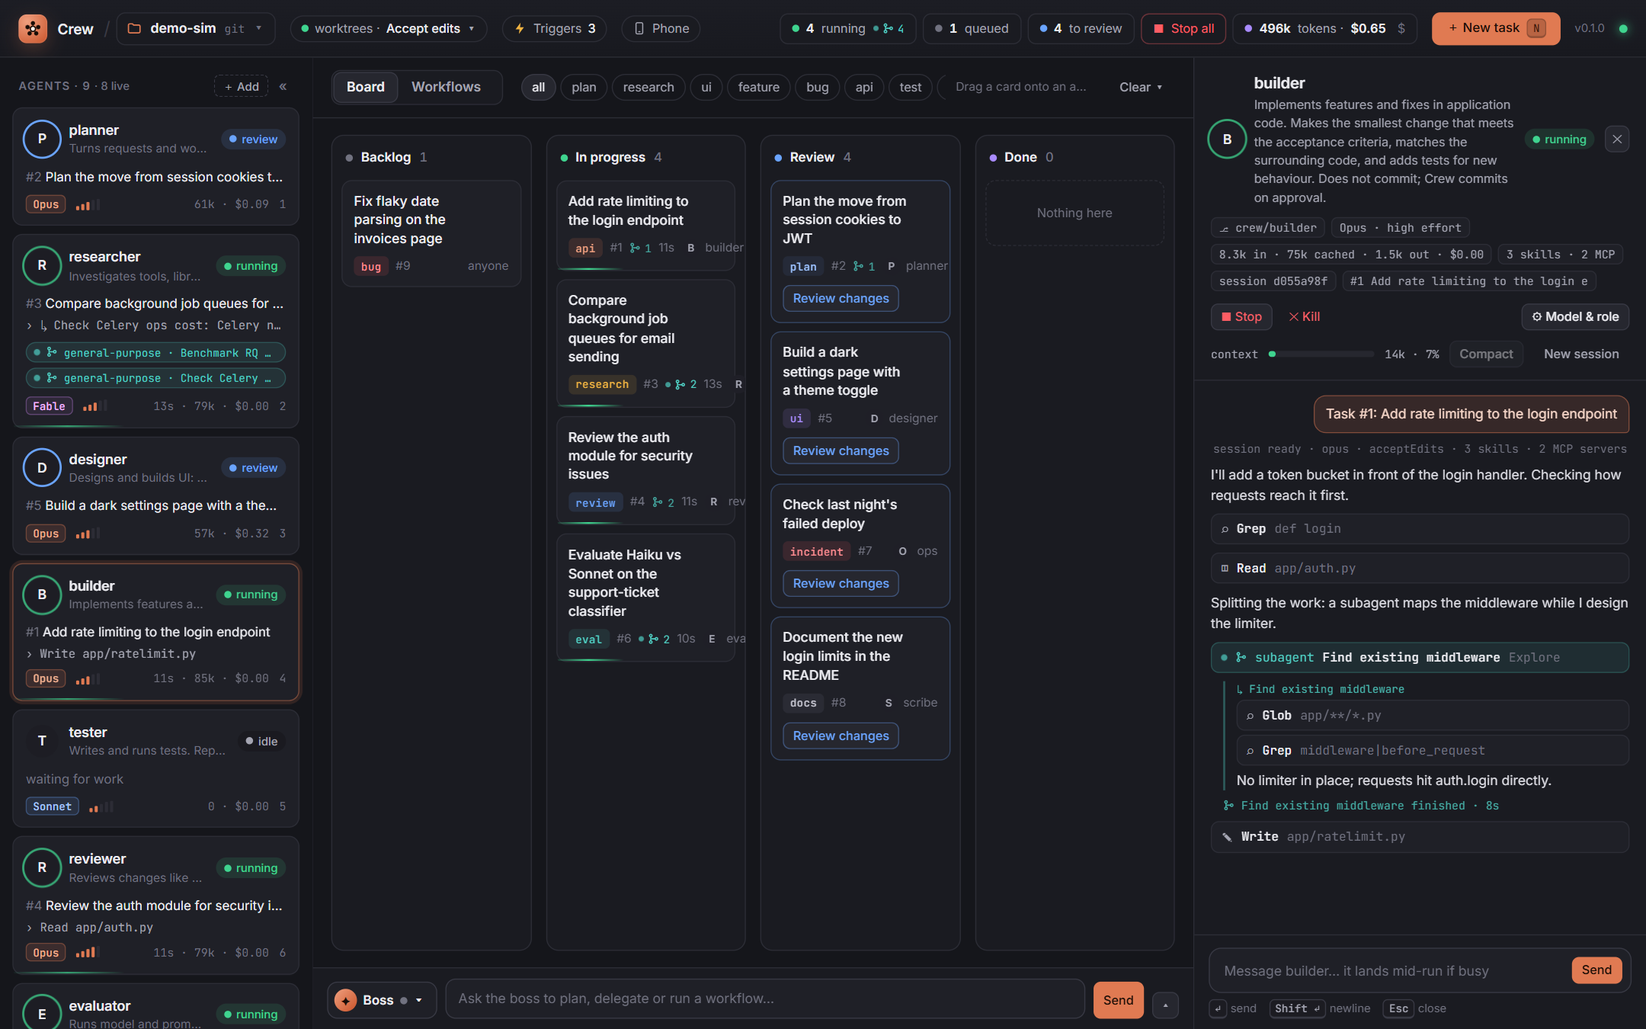
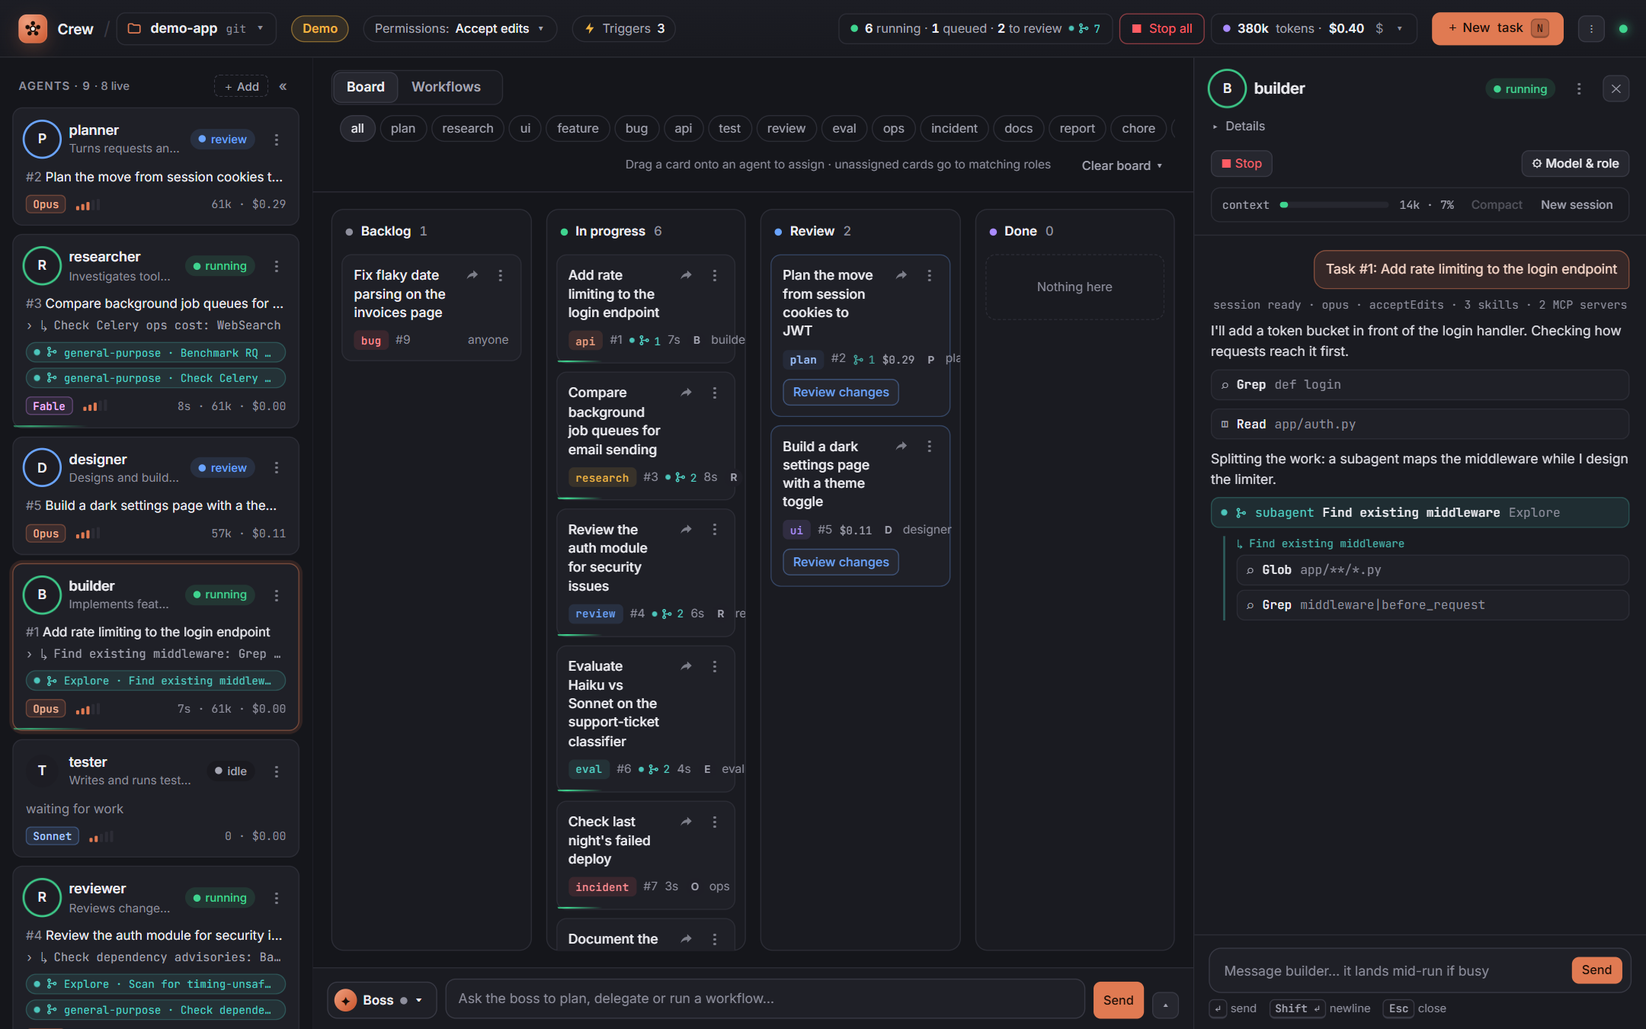
Crew 0.2.0: changelog, README, screenshots
The review-to-merge loop (decision sheet, merge or PR, Blocked inbox, budgets, first-run card), Phase 1 safety fixes and Phase 3 polish. New review, review-merge, blocked, hero, agent, flows, canvas, slash and phone screenshots.

diff --git a/server.py b/server.py
@@ -30,7 +30,7 @@ from http.server import BaseHTTPRequestHandler, ThreadingHTTPServer
 from pathlib import Path
 from urllib.parse import parse_qs, urlsplit
 
-__version__ = "0.1.0"
+__version__ = "0.2.0"
 
 APP_DIR = Path(__file__).resolve().parent
 # A clone has pyproject.toml next to server.py; an installed wheel does not. When installed, the

diff --git a/README.md b/README.md
@@ -29,7 +29,7 @@ git clone https://github.com/pranjal-joshi/claude-crew && cd claude-crew
 python server.py --demo
 ```
 
-Open **http://127.0.0.1:8770**.
+Open **http://127.0.0.1:8770**. On an empty board a first-run card offers one example task; a **Demo** badge in the header tells demo from a real project.
 
 ## Install
 
@@ -37,7 +37,7 @@ Crew is pure standard-library Python (3.10 or newer) and installs as a `crew` co
 
 ```bash
 pipx install claude-crew                      # from PyPI, once published
-pipx install https://github.com/pranjal-joshi/claude-crew/releases/download/v0.1.0/claude_crew-0.1.0-py3-none-any.whl   # a release wheel
+pipx install https://github.com/pranjal-joshi/claude-crew/releases/download/v0.2.0/claude_crew-0.2.0-py3-none-any.whl   # a release wheel
 pipx install git+https://github.com/pranjal-joshi/claude-crew   # latest main
 ```
 
@@ -51,7 +51,7 @@ You need [Claude Code](https://docs.claude.com/en/docs/claude-code) installed an
 python server.py --project /path/to/your/repo
 ```
 
-To use it from your phone or another computer on the same Wi-Fi, add `--lan`, then click **Phone** in the header and scan the QR code. On a phone it lays out like an app:
+To use it from your phone or another computer on the same Wi-Fi, add `--lan`, then open the header **⋮** menu, choose **Phone**, and scan the QR code. On a phone it lays out like an app:
 
 ```bash
 python server.py --project /path/to/your/repo --lan
@@ -69,7 +69,7 @@ Crew gives that queue a home:
 - **One board** for every task, with Backlog, In progress, Review and Done columns.
 - **Agents that pull their own work.** Each agent has a role and tags; idle agents take matching tasks.
 - **No stepping on each other.** Every agent works in its own git worktree on its own `crew/<name>` branch.
-- **You stay the reviewer.** Finished work lands in Review with the agent's summary and a real diff. Approve commits it; Send back resumes the same session with your feedback.
+- **You stay the reviewer.** Finished work lands in Review as a decision sheet: the agent's summary, a verdict line (files, +/-, tests) and a per-file diff. Approve commits it, then one click merges the branch or opens a PR. Send back resumes the same session with your feedback.
 - **Work that starts itself.** Schedules, events, file watches, command polls and webhooks turn into tasks, so the standup gets written at 11:00 and every approved feature gets tests.
 
 ## The boss
@@ -125,12 +125,18 @@ The **Output** block decides what a finished run delivers:
 | 🔗 Webhook | The run report is POSTed as JSON (`workflow, run, title, status, report, steps`) to a URL, e.g. a Slack or Teams hook. |
 | ⛓ Next workflow | Another workflow starts with the same goal and this run's last summary (at most 5 in a chain). |
 
+## Review, merge, budgets
+
+A finished task lands in **Review** as a decision sheet: a verdict line, **Approve & commit** pinned at the bottom, the diff collapsed per file, and **Send back** beside it. Press <kbd>A</kbd> to approve; an undo toast lets you take it back. Once approved, **Merge into current branch** merges it in one click, or **Open PR** uses `gh` when the repo has a remote. On a conflict Crew lists the files and offers to send the task back to the agent. Done cards show merged or not merged.
+
+Every card shows its cost. Set a **per-task** and a **per-day** budget (click the tokens/$ stat). A task that hits its budget is flagged and can't be sent back; a spent day budget stops running agents until the next local day or a higher budget.
+
 ## Stop, kill, clear
 
 - **■ Stop** (agent card, drawer, or **Stop all** in the header) ends the current run at once. The session is kept, the task goes back to the backlog **on hold**, and the agent pauses until you press **▶ Resume** or give it work.
-- **Kill** disables an agent until you respawn it. Use it for an agent that misbehaves.
-- **Clear ▾** removes Done tasks, or the whole board (running agents are stopped first). Branches and commits are kept.
-- **Clear** (red button, top right of an open boss or agent chat) wipes that conversation and empties its context: the next message starts a fresh session.
+- **Kill** (agent ⋮ menu, behind a confirm) disables an agent until you respawn it. Use it for an agent that misbehaves.
+- **Clear board ▾** removes Done tasks, or the whole board (running agents are stopped first). Branches and commits are kept.
+- **Clear chat** (red button, top right of an open boss or agent chat) wipes that conversation and empties its context: the next message starts a fresh session.
 
 Give each agent an icon (two dozen dev line icons) and a colour in its settings; the glyph switches between black and white to stay readable. Every agent and every card has a **⋮** menu at its top right: rename, settings, stop, kill or delete an agent; move, mark done or delete a card. The forward button next to a card's ⋮ hands it to an agent (or lets the boss pick), and hand-offs show the same arrow with who it went to. Click a card on the board to open the agent that handled it. Drag agents in the left rail to reorder the crew; the order is saved to `crew.json`. Collapse the rail with « to a slim column of avatars and status dots, and » brings it back (remembered per browser).
 
@@ -168,16 +174,20 @@ Nine presets cover the common loops: daily standup, test what ships, review what
 | 🧹 **Fresh context per task** | A new session per task keeps tokens down; send-back still resumes. Per-agent switch. |
 | 🧠 **Model and effort per agent** | Opus for the builder, Sonnet for the tester, Fable for research: each agent gets its own model and effort level (low to max). |
 | 🪢 **Subagents, visible** | When an agent fans out to subagents, you see each one live on the agent card, a count on the task, and a labelled thread in the transcript. |
-| 🌳 **Worktree isolation** | One worktree and branch per agent. Merge what you approve with `git merge crew/<name>`. |
-| 🔍 **Review gate** | Agent summary and colored diff side by side. Approve and commit, send back, or hand off to another agent. |
+| 🌳 **Worktree isolation** | One worktree and branch per agent, kept even if the worktree folder goes missing. |
+| 🔍 **Review gate** | A decision sheet: summary, verdict line and per-file diff. Approve and commit (<kbd>A</kbd>, with undo), send back, or hand off. |
+| 🔀 **Merge or PR** | One click merges an approved branch, or opens a PR with `gh`. Conflicts are listed and can go back to the agent. |
+| 🚫 **Blocked inbox** | Tool calls the permission mode refused are listed: Allow & retry, Allow once, or Dismiss. |
+| 💲 **Budgets** | Cost on every card, plus a per-task and a per-day budget that stops runs. |
 | ↪ **Hand-offs** | Drag any card, in any column, onto another agent. The earlier summary, branch and commit go along as context. |
 | ✦ **Boss chat** | A chat bar that runs the crew: tasks, workflows, agents and triggers, from plain requests. |
-| ⌨ **Slash picker** | Type `/` in any chat box for Crew commands plus the agent's Claude Code commands and skills. **Clear** in the chat panel wipes a chat and its context. |
+| ⌨ **Slash picker** | Type `/` in any chat box for Crew commands plus the agent's Claude Code commands and skills. **Clear chat** wipes a chat and its context. |
 | 💬 **Talk mid-run** | Message any agent while it works. The message lands in the running session. |
+| ☕ **Keep-awake** | `--awake` stops idle sleep while agents work, so runs and schedules aren't paused. |
 | 📱 **Phone app feel** | `--lan` plus a QR code. On a phone: bottom navigation, swipeable columns, bottom sheets, Android back closes sheets. |
-| ■ **Stop, kill, clear** | Stop a run (session kept, task on hold), stop everything at once, or clear the board. |
-| 🔐 **Permission modes** | Accept edits (default), Auto (Claude Code's safety classifier) or Bypass, for all agents from one switch. |
-| 🔢 **Tokens and cost** | Live token counts per agent, per task and in total. Hide the dollar amounts with one click. |
+| ■ **Stop, kill, clear** | Stop a run (session kept, task on hold), stop everything at once, or clear the board. Agent ⋮ menus rename, recolour and kill. |
+| 🔐 **Permission modes** | Accept edits (default), Auto (Claude Code's safety classifier) or Bypass, from the **Permissions** chip in the header. |
+| 🔢 **Tokens and cost** | Live token counts per agent, per task and in total. Hide the dollar amounts with one click. Totals are marked "this session". |
 | 🧩 **Your skills and MCP servers** | Agents are ordinary Claude Code sessions, so they load your skills, plugins and MCP servers. |
 | 📁 **Projects** | Switch repos from the header. Each project keeps its own board, sessions and worktrees. |
 | ⌨ **Keyboard first** | `/` talk to the boss, `N` new task, `T` triggers, `W` / `B` workflows / board, `1`–`9` open an agent, `Ctrl K` command palette, `Esc` close. |
@@ -187,7 +197,11 @@ Nine presets cover the common loops: daily standup, test what ships, review what
 <table>
   <tr>
     <td width="50%"><img src="assets/agent.png" alt="Agent transcript with parallel subagents"><br><sub><b>Agent view.</b> Live transcript; subagents get their own labelled thread.</sub></td>
-    <td width="50%"><img src="assets/review.png" alt="Review drawer with summary and diff"><br><sub><b>Review.</b> The agent's summary and its diff. Approve commits to its branch.</sub></td>
+    <td width="50%"><img src="assets/review.png" alt="Review decision sheet with summary and diff"><br><sub><b>Review.</b> Verdict line, per-file diff and a pinned Approve & commit.</sub></td>
+  </tr>
+  <tr>
+    <td width="50%"><img src="assets/review-merge.png" alt="Approved task with Merge and Open PR buttons"><br><sub><b>Merge or PR.</b> After Approve: merge into the current branch, open a PR, or undo.</sub></td>
+    <td width="50%"><img src="assets/blocked.png" alt="Blocked inbox in the agent drawer"><br><sub><b>Blocked inbox.</b> A refused command: Allow &amp; retry, Allow once, or Dismiss.</sub></td>
   </tr>
   <tr>
     <td width="50%"><img src="assets/flows.png" alt="Workflows tab with five workflows"><br><sub><b>Workflows.</b> Agents in a fixed order; runs show each step live. Run has a green ▶.</sub></td>
@@ -199,7 +213,7 @@ Nine presets cover the common loops: daily standup, test what ships, review what
   </tr>
   <tr>
     <td width="50%"><img src="assets/settings.png" alt="Per-agent model and effort settings"><br><sub><b>Model and role.</b> Per-agent model, effort, role and tags.</sub></td>
-    <td width="50%"><img src="assets/hero.png" alt="Board with nine agents running"><br><sub><b>Board.</b> Agents in flight, subagents counted on each card.</sub></td>
+    <td width="50%"><img src="assets/hero.png" alt="Board with nine agents running"><br><sub><b>Board.</b> Agents in flight, with cost and subagents on each card.</sub></td>
   </tr>
   <tr>
     <td width="50%"><img src="assets/slash.png" alt="Slash picker in the chat bar"><br><sub><b>Slash picker.</b> Type <code>/</code> for Crew commands, plus an agent's commands and skills.</sub></td>
@@ -223,7 +237,7 @@ flowchart LR
 - Each agent is a long-lived `claude -p --input-format stream-json --output-format stream-json` process. Crew writes tasks and your messages to its stdin and reads every event from its stdout.
 - A one-second loop checks triggers, then gives idle agents work: tasks pinned to them first, then unassigned tasks whose tag matches the agent's tags.
 - Subagents are tracked from the stream itself. An `Agent` tool call starts one, events tagged with its `parent_tool_use_id` belong to it, and its tool result ends it.
-- State (board, triggers, sessions, tokens, transcripts) is saved per project under `~/.crew/state/`. Worktrees live in `~/.crew/wt/`, which keeps paths short enough for Windows.
+- State (board, triggers, sessions, tokens, transcripts) is saved per project under `~/.crew/state/`. Agent process ids are kept in `~/.crew/pids/`, so leftovers from a crash are ended at startup. Worktrees live in `~/.crew/wt/`, which keeps paths short enough for Windows.
 
 ## Configuration
 
@@ -254,7 +268,7 @@ flowchart LR
 
 ### Permissions
 
-Headless agents can't answer permission prompts. In **Accept edits** mode, file edits are allowed and Bash commands outside `allowed_tools` are refused, and the agent is told why. Refused calls land in the **blocked** list in the header (and in the agent's drawer): **Allow & retry** adds a rule such as `Bash(npm test:*)` to `allowed_tools` for you, or **Allow once** keeps it until that task ends. You can also add commands to `allowed_tools` yourself, or switch to **Auto** to let Claude Code's classifier decide. **Bypass** skips all checks and asks you to confirm first.
+Headless agents can't answer permission prompts. In **Accept edits** mode, file edits are allowed and Bash commands outside `allowed_tools` are refused, and the agent is told why. Refused calls land in the **Blocked** inbox (the "N blocked" chip in the header, and the agent's drawer): **Allow & retry** adds a rule such as `Bash(npm test:*)` to `allowed_tools` for you, **Allow once** keeps it until that task ends, and **Dismiss** clears it. You can also add commands to `allowed_tools` yourself, or switch to **Auto** to let Claude Code's classifier decide. **Bypass** skips all checks and asks you to confirm first.
 
 ## Security
 
@@ -263,14 +277,15 @@ Headless agents can't answer permission prompts. In **Accept edits** mode, file 
 - `--lan` listens on your network, but every request from another device needs a secret key (set as a cookie by the QR link) and a bare-IP `Host`. The key lives in `~/.crew/lan-key`; delete it to sign every device out. Traffic is plain HTTP, so use it on networks you trust.
 - Agents are told to stay inside the project folder unless a task names another path.
 - Webhooks are the one write path without the browser header. Each needs its own random token, compared in constant time.
-- Poll triggers run the command you typed, in your shell, in the project folder. Treat them like a cron job you wrote yourself.
+- Poll triggers run the command you typed, in your shell, in the project folder. They can only be created from the UI, after a confirm that shows the command. Treat them like a cron job you wrote yourself.
 
 ### Security model
 
 - **Local trust.** Anything that can read your user's files or run as you can drive Crew, the same as it can run `claude` itself. Crew does not defend against other software on your account.
 - **Per-run tokens.** The page gets one secret when it loads, and `crew_mcp` gets another through its environment. Every `POST /api/act/*` needs one of them (`X-Crew-Auth`), on top of the `X-Crew` header, so a random local process or an agent's Bash can't just call the API.
-- **Agents and the boss are limited.** The MCP token only allows the actions the crew tools use (tasks, hand-offs, agents, workflows, triggers). It can't create poll triggers (shell commands), change the permission mode, switch project or browse folders. Those need the page.
+- **Agents and the boss are limited.** The MCP token is checked against an allowlist of the actions the crew tools use (tasks, hand-offs, agents, workflows, non-poll triggers). It can't create poll triggers (shell commands), change the permission mode, switch project or browse folders. Those need the page.
 - **LAN.** With `--lan`, a device that signs in with the key gets the page, so it can use the board, but it can't browse the host's disk or switch projects.
+- **Your files.** `crew.json` and state are saved atomically with a `.bak`; a corrupt state file is set aside as `.corrupt`. Synced local files (`.mcp.json`, `settings.local.json`, `CLAUDE.local.md`) are kept out of commits.
 
 ## FAQ
 
@@ -280,7 +295,7 @@ Headless agents can't answer permission prompts. In **Accept edits** mode, file 
 
 **Can an agent spawn its own subagents or background jobs?** Yes, they're full Claude Code sessions. Crew shows subagents live. Kill ends the whole process tree, background jobs included.
 
-**How do I merge an agent's work?** Approve commits to the agent's branch. Then `git merge crew/builder` (or open a PR) like any other branch.
+**How do I merge an agent's work?** Approve commits to the agent's branch, then **Merge into current branch** or **Open PR** on the card. Plain `git merge crew/builder` works too.
 
 **Which platforms?** Built and tested on Windows 11. macOS and Linux use the same code paths (process groups instead of `taskkill`); reports welcome.
 
@@ -293,7 +308,7 @@ Headless agents can't answer permission prompts. In **Accept edits** mode, file 
 - [x] Event triggers chain work ("tests after feature")
 - [x] Workflows: agents in a fixed order with approval gates
 - [ ] Parallel steps in workflows (fan out, then join)
-- [ ] One-click merge of approved branches
+- [x] One-click merge of approved branches, or Open PR
 
 Ideas and PRs welcome. Open an issue first for anything big.
 

diff --git a/CHANGELOG.md b/CHANGELOG.md
@@ -2,16 +2,45 @@
 
 All notable changes to this project are documented here. The format follows [Keep a Changelog](https://keepachangelog.com/), and versions follow [Semantic Versioning](https://semver.org/).
 
-## [Unreleased]
+## [0.2.0] - 2026-10-21
+
+The review-to-merge loop, plus safety and polish.
 
 ### Added
-- Agent icons (24 dev line icons) and background colours; the glyph turns black or white for contrast.
-- Keep-awake while agents work (`--awake busy|always|off`, default `busy`), like the Claude desktop app: a locked screen never paused Crew, but idle sleep did. ☕ in the header while it holds.
-- Case-only agent renames (designer → Designer) carry the worktree and branch along.
-- ⋮ menu on every agent: rename (moves its worktree and branch, updates tasks, triggers and workflows), settings, stop, kill, delete.
+- Review decision sheet: a verdict line (files, +/-, tests), a pinned **Approve & commit**, a per-file diff, and `A` to approve with an undo toast.
+- One-click **Merge** of an approved branch into the base branch, or **Open PR** with `gh` when there is a remote. On a conflict it lists the files and offers to send the task back to the agent. Done cards show merged or not merged.
+- First-run card on an empty board and a **Demo** badge that tells demo and real projects apart.
+- Blocked inbox: tool calls the permission mode refused show as a "N blocked" chip, a list and a drawer section. **Allow & retry** adds an editable rule (such as `Bash(npm test:*)`) to `allowed_tools` and restarts the agent with the session kept; **Allow once** keeps it until the task ends; **Dismiss** clears it.
+- Cost on every task card, and budgets per task and per day (`budget_task_usd`, `budget_day_usd`). A task at its budget is flagged and can't be sent back; a spent daily budget stops running agents until the next local day or a higher budget.
+- Header summary pill, a ⋮ header menu (Phone, version and more) and a **Permissions: Auto** chip. Agent drawer **Details**, Kill behind a confirm, tooltips and a gate legend for ✋ / ⚡.
+- Agent ⋮ menu (rename, settings, stop, kill, delete). Rename moves the worktree and branch and updates tasks, triggers and workflows; case-only renames work.
+- Agent icons (24 dev line icons) and background colours.
+- Card forward button (hand off to an agent), next to an always-visible ⋮.
+- Keep-awake while agents work (`--awake busy|always|off`, default `busy`), with ☕ in the header.
+- Workflows page: ⋮ menu with delete, and a one-line Auto Workflow Builder.
+- Accessibility: focus ring, aria-labels, keyboard-operable cards and chips, reduced-motion support, better small-text contrast.
+- Agent processes are recorded in `~/.crew/pids/<project>.json`; leftovers from a crashed run are ended at startup.
+- Tests for git integration, the auth matrix and bad webhook tokens.
 
 ### Changed
-- Cards get a forward button (hand off to an agent) next to an always-visible ⋮ (move, mark done, delete); hand-offs show a forward arrow.
+- Clear buttons have specific names: **Clear board** and **Clear chat**.
+- Token totals are labelled "this session"; agent card numbers are labelled.
+- The header shows one running/review summary; Stop all appears only while something runs.
+- Clicking a board card opens the agent that handled it.
+
+### Fixed
+- Approve, undo, merge, Open PR and diff no longer run git under the global lock, so the live stream stays responsive. The task shows as busy and a second click is refused.
+- A hung agent stdin can no longer block Crew; a process that stops reading is ended with its session kept.
+- Stopping an agent sends SIGTERM to its process group and SIGKILL after 3 s on macOS and Linux; on Windows a failed `taskkill` is logged.
+- An agent's branch is reused when its worktree folder is missing, instead of being reset and orphaning approved commits.
+- A corrupt state file is renamed to `.corrupt` and reported, instead of silently starting empty.
+
+### Security
+- Synced local Claude files (`.claude/settings.local.json`, `.mcp.json`, `CLAUDE.local.md`) are kept out of commits.
+- Poll triggers (shell commands) can only be created from the UI, after a confirm that shows the command. The boss can't create them.
+- Per-run caller tokens (UI and MCP) on `POST /api/act/*`; the MCP token is limited to an allowlist of crew actions.
+- With `--lan`, clients can't browse folders or switch projects.
+- `crew.json` and state are written atomically with a `.bak`; the webhook `Content-Length` is guarded.
 
 ## [0.1.0] - 2026-10-20
 
@@ -37,3 +66,4 @@ First packaged release. `pipx install claude-crew` gives a `crew` command; `pyth
 - When installed from a package, the default `crew.json` is read from (and created in) the current folder instead of next to `server.py`. From a clone, behavior is unchanged.
 
 [0.1.0]: https://github.com/pranjal-joshi/claude-crew/releases/tag/v0.1.0
+[0.2.0]: https://github.com/pranjal-joshi/claude-crew/compare/v0.1.0...v0.2.0

diff --git a/TODO.md b/TODO.md
@@ -46,6 +46,8 @@ Legend: `[x]` done and tested · `[~]` in progress · `[ ]` pending · `[-]` dro
 **User:** an experienced Claude Code user juggling 2+ terminals. **Job:** hand off well-scoped tasks, walk away, and come back to diffs you can trust and merge in under a minute.
 **Metrics (opt-in local counters, no telemetry):** time from install to first merged change (< 15 min) · first-pass approval rate (≥ 70%) and review time (< 60 s) · merged tasks per week and $ per merged task.
 
+*Released in v0.2.0 (Phases 1-3 shipped together).*
+
 ### Phase 1 · v0.1.1 safety hotfix (all small, ship first)
 - [x] Reuse an agent's branch when its worktree folder is missing. Today `git worktree add -B … HEAD` (server.py:466) resets it and orphans approved, unmerged commits
 - [x] Keep synced local Claude files (`.claude/settings.local.json`, `.mcp.json`, `CLAUDE.local.md`) out of commits by listing them in the worktree's `.git/info/exclude`. Approve runs `git add -A` today
